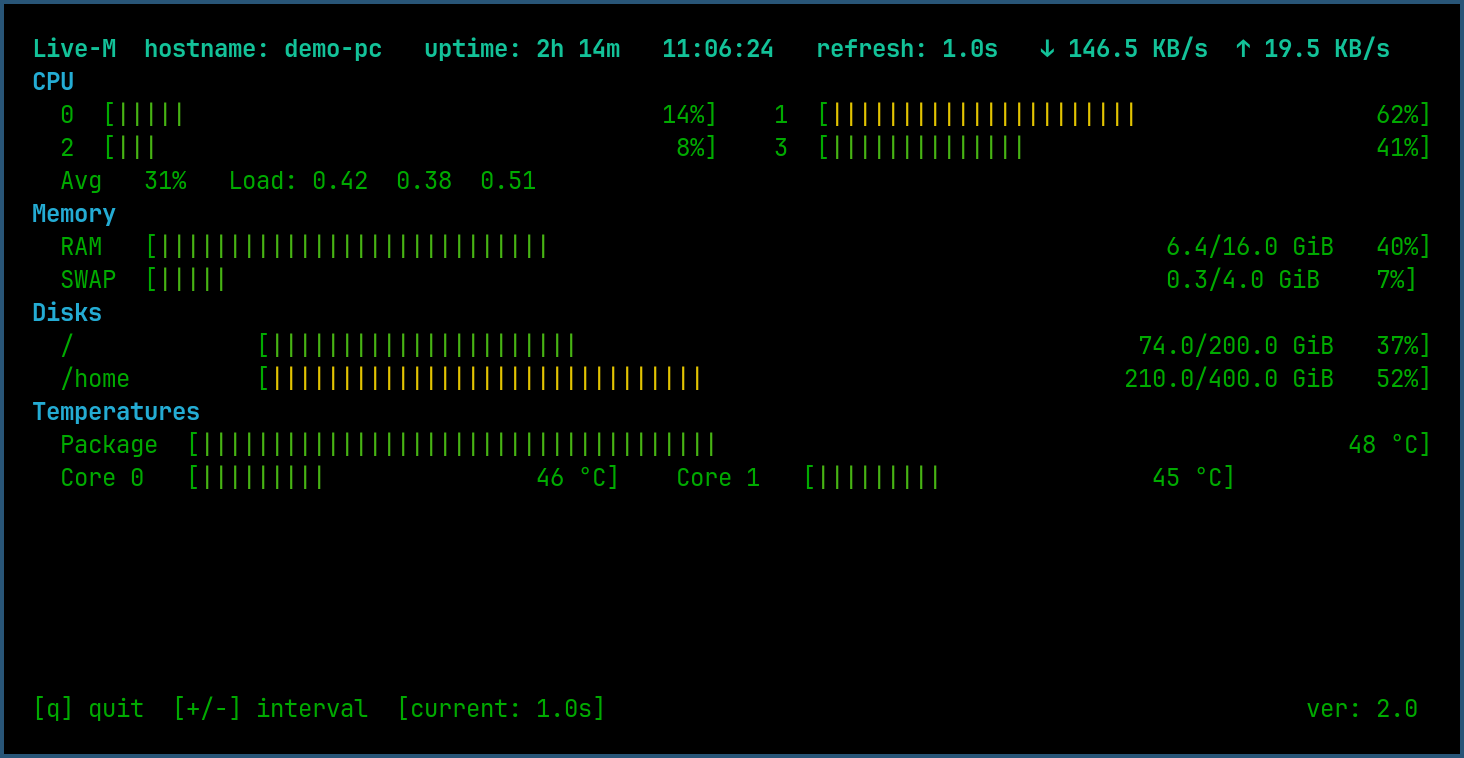
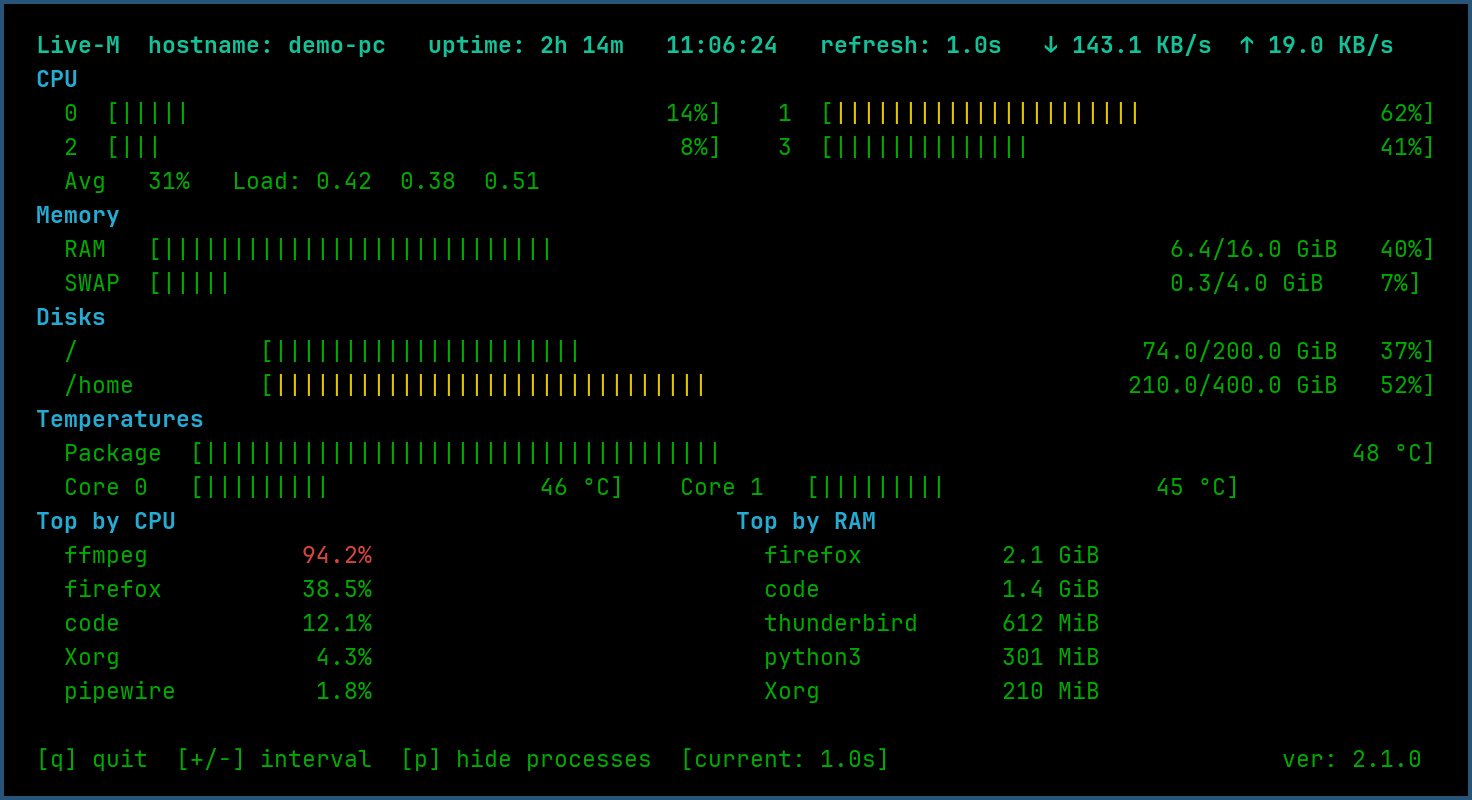
feat(web): Live-M 2.1.0 – nový popis, screenshot s panelem procesů, Python 3.10+
- stránka Live-M: panel Top procesů na klávesu p, historie terminálu, Wi-Fi podle jádra,
  jakýkoli Linux, změřená zátěž (~0,4 % / ~0,8 %), Python 3.10+, Arch v textu
- nový terminal.webp a card.webp (z fake dat), tagline a popisy v apps.yml, úvodní stránka
- verze Live-M 2.1.0 a wpview 0.1.1; stránka wpview: React 18 nebo 19

diff --git a/apps/live-m.html b/apps/live-m.html
@@ -1,6 +1,6 @@
 ---
 title: "Live-M — a lightweight terminal system monitor | Icenux"
-description: "Live-M is a lightweight CLI system monitor for Linux: per-core CPU, RAM, swap, disks, temperatures and Wi-Fi speed without the weight of htop."
+description: "Live-M is a lightweight CLI system monitor for Linux: per-core CPU, RAM, swap, disks, temperatures and Wi-Fi speed, plus an optional top-processes panel, without the weight of htop."
 permalink: /apps/live-m/
 nav: apps
 og_type: article
@@ -15,8 +15,8 @@ next: [repo-doctor, sway-desktop-stats]
           <div class="app-hero__copy">
             <span class="app-tag"><span class="app-tag__icon app-tag__icon--live"><svg viewBox="0 0 24 24" aria-hidden="true">{{ app.icon_svg }}</svg></span>Linux utility</span>
             <h1>Live-M<span class="dot-end">.</span></h1>
-            <p class="lede">A lightweight terminal system monitor that replaces htop and psensors — and never touches the process list.</p>
-            <p class="app-hero__text">Per-core CPU, memory, swap, disks, temperatures and live Wi-Fi throughput in one calm, colour-coded view. Everything updates in place, so you can leave it open on a second monitor and forget about it.</p>
+            <p class="lede">A lightweight terminal system monitor that replaces htop and psensors — and only looks at processes when you ask it to.</p>
+            <p class="app-hero__text">Per-core CPU, memory, swap, disks, temperatures and live Wi-Fi throughput in one calm, colour-coded view. Press <kbd>p</kbd> when you want to see the five busiest processes. Everything updates in place, so you can leave it open on a second monitor and forget about it.</p>
             <div class="app-hero__actions">
               <a class="btn btn--primary" href="#download">Download {{ app.version }} <svg viewBox="0 0 24 24" aria-hidden="true"><path d="M5 12h14M13 6l6 6-6 6"/></svg></a>
               <a class="btn btn--ghost" href="https://github.com/Icenux/Live-M" target="_blank" rel="noopener"><svg viewBox="0 0 24 24" aria-hidden="true"><path d="M12 2a10 10 0 0 0-3.16 19.49c.5.09.68-.22.68-.48v-1.7c-2.78.6-3.37-1.34-3.37-1.34-.45-1.16-1.11-1.47-1.11-1.47-.91-.62.07-.61.07-.61 1 .07 1.53 1.03 1.53 1.03.9 1.53 2.35 1.09 2.92.83.09-.65.35-1.09.63-1.34-2.22-.25-4.55-1.11-4.55-4.94 0-1.09.39-1.98 1.03-2.68-.1-.25-.45-1.27.1-2.65 0 0 .84-.27 2.75 1.02a9.6 9.6 0 0 1 5 0c1.91-1.29 2.75-1.02 2.75-1.02.55 1.38.2 2.4.1 2.65.64.7 1.03 1.59 1.03 2.68 0 3.84-2.34 4.68-4.57 4.93.36.31.68.92.68 1.85v2.74c0 .27.18.58.69.48A10 10 0 0 0 12 2z" fill="currentColor"/></svg> GitHub</a>
@@ -24,7 +24,7 @@ next: [repo-doctor, sway-desktop-stats]
             <ul class="app-facts">
               <li><span>Version</span><strong>{{ app.version }}</strong></li>
               <li><span>Platform</span><strong>Linux</strong></li>
-              <li><span>Runtime</span><strong>Python 3.8+</strong></li>
+              <li><span>Runtime</span><strong>Python 3.10+</strong></li>
               <li><span>License</span><strong>MIT</strong></li>
             </ul>
           </div>
@@ -35,7 +35,7 @@ next: [repo-doctor, sway-desktop-stats]
                 <span class="shot-frame__title">livem</span>
                 <span class="shot-frame__badge">live</span>
               </div>
-              <img src="/assets/apps/live-m/terminal.webp" alt="Live-M running in a terminal, showing CPU, memory, disk and temperature panels" width="1464" height="758">
+              <img src="/assets/apps/live-m/terminal.webp" alt="Live-M running in a terminal, showing CPU, memory, disk and temperature panels and the top-processes panel" width="1472" height="800">
             </div>
             <figcaption>Every panel refreshes in place. Colours tell you what needs attention.</figcaption>
           </figure>
@@ -50,7 +50,7 @@ next: [repo-doctor, sway-desktop-stats]
             <span class="kicker">What it shows</span>
             <h2>Everything that matters.<br>Nothing that doesn't<span class="dot-end">.</span></h2>
           </div>
-          <p>Live-M is deliberately not a process explorer. It answers one question well: how is this machine doing right now?</p>
+          <p>Live-M is deliberately not a process explorer. It answers one question well: how is this machine doing right now? And when the answer is &ldquo;busy&rdquo;, one key shows what is busy.</p>
         </div>
         <div class="feature-grid">
                     <article class="feature reveal">
@@ -86,14 +86,35 @@ next: [repo-doctor, sway-desktop-stats]
               <svg viewBox="0 0 24 24" aria-hidden="true"><path d="M2 8.5a15 15 0 0 1 20 0"/><path d="M5.5 12a10 10 0 0 1 13 0"/><path d="M9 15.5a5 5 0 0 1 6 0"/><circle cx="12" cy="19" r="1"/></svg>
             </span>
             <h3>Live Wi-Fi speed</h3>
-            <p>Current download and upload throughput sit in the header, next to the hostname, without taking over the screen.</p>
+            <p>Current download and upload throughput sit in the header, next to the hostname, without taking over the screen. The wireless interface is detected from the kernel, whatever it is called.</p>
           </article>
                     <article class="feature reveal">
             <span class="feature__icon">
               <svg viewBox="0 0 24 24" aria-hidden="true"><path d="m13 2-9 12h7l-1 8 9-12h-7z"/></svg>
             </span>
             <h3>Lighter than htop</h3>
-            <p>Live-M skips /proc/[pid] entirely. CPU usage stays under 0.5%, which is the whole reason it exists.</p>
+            <p>By default Live-M skips /proc/[pid] entirely and uses around 0.4% of one core, which is the whole reason it exists.</p>
+          </article>
+                    <article class="feature reveal">
+            <span class="feature__icon">
+              <svg viewBox="0 0 24 24" aria-hidden="true"><path d="M8 6h12M8 12h12M8 18h12"/><circle cx="4" cy="6" r="1"/><circle cx="4" cy="12" r="1"/><circle cx="4" cy="18" r="1"/></svg>
+            </span>
+            <h3>Top processes on demand</h3>
+            <p>Press <kbd>p</kbd> for the five busiest processes by CPU and by RAM. It is off by default, sampled every 3 seconds and only while it is on screen, so the cost is small and only paid when you ask.</p>
+          </article>
+                    <article class="feature reveal">
+            <span class="feature__icon">
+              <svg viewBox="0 0 24 24" aria-hidden="true"><rect x="3" y="4" width="18" height="16" rx="2"/><path d="m7 9 3 3-3 3M13 15h4"/></svg>
+            </span>
+            <h3>Your terminal stays intact</h3>
+            <p>Live-M runs on the alternate screen. When you quit with <kbd>q</kbd> or <kbd>Ctrl</kbd>+<kbd>C</kbd>, the shell output from before you started it is right where you left it.</p>
+          </article>
+                    <article class="feature reveal">
+            <span class="feature__icon">
+              <svg viewBox="0 0 24 24" aria-hidden="true"><circle cx="12" cy="12" r="9"/><path d="M3 12h18M12 3a14 14 0 0 1 0 18M12 3a14 14 0 0 0 0 18"/></svg>
+            </span>
+            <h3>Any Linux</h3>
+            <p>Pure Python on <code>/proc</code> and <code>/sys</code>, so it is not tied to a distribution or CPU architecture. Ready-made packages for Debian, Ubuntu, Mint and Arch; Python 3.10 or newer.</p>
           </article>
         </div>
       </div>
@@ -108,10 +129,11 @@ next: [repo-doctor, sway-desktop-stats]
           </div>
           <div class="why-panel__body">
             <p>htop walks every process in <code>/proc/[pid]/</code> on every refresh. That is useful when you need a process list — and unnecessary weight when you only want the health of the machine.</p>
-            <p>Live-M drops the process iteration completely. The result is a monitor that stays under 0.5% CPU, starts instantly and looks good doing it.</p>
+            <p>By default Live-M does not iterate over processes at all. The result is a monitor that stays around 0.4% CPU, starts instantly and looks good doing it. When you do want to know what is loading the machine, press <kbd>p</kbd>: the panel reads one small file per process, samples every 3 seconds and is not sampled at all while hidden. Measured with 300 processes, that is about 0.8% CPU in total.</p>
             <ul class="check-list">
               <li>Live-updating panels, no flicker</li>
               <li>Refresh interval adjustable with <kbd>+</kbd> and <kbd>-</kbd></li>
+              <li>Top processes with <kbd>p</kbd>, or start with them on using <code>--procs</code></li>
               <li>Optional <code>--interval</code>, <code>--no-color</code>, <code>--version</code> and <code>--help</code></li>
               <li>Quit with <kbd>q</kbd> or <kbd>Ctrl</kbd>+<kbd>C</kbd></li>
             </ul>
@@ -131,8 +153,8 @@ next: [repo-doctor, sway-desktop-stats]
         </div>
         <div class="shots shots--single">
                     <figure class="shot shot--wide reveal">
-            <img src="/assets/apps/live-m/terminal.webp" alt="Full Live-M terminal dashboard with CPU cores, RAM, swap, disks, temperatures and Wi-Fi in the header" width="1464" height="758" loading="lazy">
-            <figcaption>CPU, memory, disks, thermals and network — all in a single terminal window.</figcaption>
+            <img src="/assets/apps/live-m/terminal.webp" alt="Full Live-M terminal dashboard with CPU cores, RAM, swap, disks, temperatures, the top processes by CPU and RAM, and Wi-Fi in the header" width="1472" height="800" loading="lazy">
+            <figcaption>CPU, memory, disks, thermals, network and the busiest processes — all in a single terminal window.</figcaption>
           </figure>
         </div>
       </div>
@@ -144,12 +166,12 @@ next: [repo-doctor, sway-desktop-stats]
           <div class="download-panel__copy">
             <span class="kicker">Download</span>
             <h2>Install Live-M<span class="dot-end">.</span></h2>
-            <p>Built for Debian, Ubuntu and Linux Mint. Install it from the signed Icenux repository and updates arrive with <code>apt upgrade</code>. The package is small, the dependency list is one package long, and the binary is on your PATH immediately.</p>
+            <p>Packaged for Debian, Ubuntu and Linux Mint, with an Arch Linux package below. Install it from the signed Icenux repository and updates arrive with <code>apt upgrade</code>. The package is small, the dependency list is one package long, and the binary is on your PATH immediately.</p>
             <div class="download-actions">
               <a class="btn btn--primary" href="https://github.com/Icenux/Live-M/releases/latest/download/livem_all.deb" download>Download .deb <svg viewBox="0 0 24 24" aria-hidden="true"><path d="M5 12h14M13 6l6 6-6 6"/></svg></a>
               <a class="btn btn--ghost" href="https://github.com/Icenux/Live-M/releases" target="_blank" rel="noopener">All releases ↗</a>
             </div>
-            <p class="download-note">Requires Linux, Python 3.8+ and <code>python3-psutil</code>.</p>
+            <p class="download-note">Requires Linux, Python 3.10+ and <code>python3-psutil</code>.</p>
             <p class="download-note">Every release ships a signed <code>SHA256SUMS</code> next to the package.</p>
           </div>
 {% capture live_apt %}sudo curl -fsSL https://icenux.github.io/icenux/icenux.asc -o /usr/share/keyrings/icenux.asc
@@ -177,8 +199,8 @@ livem{% endcapture %}
 
         <div class="spec-grid reveal">
           <div class="spec"><span>Package</span><strong>livem {{ app.version }}</strong><small>Signed APT package</small></div>
-          <div class="spec"><span>Runs on</span><strong>Debian · Ubuntu · Mint</strong><small>Other distributions from source</small></div>
-          <div class="spec"><span>Dependency</span><strong>python3-psutil</strong><small>Plus Python 3.8 or newer</small></div>
+          <div class="spec"><span>Runs on</span><strong>Any Linux</strong><small>Packages for Debian, Ubuntu, Mint and Arch</small></div>
+          <div class="spec"><span>Dependency</span><strong>python3-psutil</strong><small>Plus Python 3.10 or newer</small></div>
           <div class="spec"><span>License</span><strong>MIT</strong><small>Free to use and modify</small></div>
         </div>
 

diff --git a/apps/wpview.html b/apps/wpview.html
@@ -23,7 +23,7 @@ next: [scrv, ccc]
             </div>
             <ul class="app-facts">
               <li><span>Version</span><strong>{{ app.version }}</strong></li>
-              <li><span>Framework</span><strong>React 18</strong></li>
+              <li><span>Framework</span><strong>React 18 or 19</strong></li>
               <li><span>Written in</span><strong>TypeScript</strong></li>
               <li><span>Format</span><strong>ESM + types</strong></li>
             </ul>
@@ -112,7 +112,7 @@ next: [scrv, ccc]
               <li>Controlled <code>index</code> and <code>itemState</code></li>
               <li>Callbacks: <code>onRate</code>, <code>onFavorite</code>, <code>onTagToggle</code>, <code>onEdit</code>, <code>onDelete</code></li>
               <li>Images and video, with a settings panel</li>
-              <li>Peer dependencies: <code>react</code> and <code>react-dom</code> 18</li>
+              <li>Peer dependencies: <code>react</code> and <code>react-dom</code> 18 or 19</li>
               <li>Playground with mock data: <code>npm run dev</code></li>
               <li>Tests with Vitest and Testing Library</li>
             </ul>
@@ -132,7 +132,7 @@ next: [scrv, ccc]
               <a class="btn btn--primary" href="https://github.com/{{ app.repo }}/archive/{{ app.tag }}.zip" download>Download source ZIP <svg viewBox="0 0 24 24" aria-hidden="true"><path d="M5 12h14M13 6l6 6-6 6"/></svg></a>
               <a class="btn btn--ghost" href="https://github.com/{{ app.repo }}" target="_blank" rel="noopener">Repository ↗</a>
             </div>
-            <p class="download-note">Needs React 18 and Node.js with npm. Release <code>{{ app.tag }}</code>.</p>
+            <p class="download-note">Needs React 18 or 19 and Node.js with npm. Release <code>{{ app.tag }}</code>.</p>
           </div>
           <div class="install-card">
             <div class="install-card__head">
@@ -180,7 +180,7 @@ import '@icenux/wpview/style.css';
 
         <div class="spec-grid reveal">
           <div class="spec"><span>Version</span><strong>{{ app.version }}</strong><small>{{ app.released }}</small></div>
-          <div class="spec"><span>Framework</span><strong>React 18</strong><small>react and react-dom as peers</small></div>
+          <div class="spec"><span>Framework</span><strong>React 18 or 19</strong><small>react and react-dom as peers</small></div>
           <div class="spec"><span>Output</span><strong>ESM</strong><small>With type declarations</small></div>
           <div class="spec"><span>Source</span><strong>GitHub</strong><small>Not on npm yet</small></div>
         </div>

diff --git a/index.html b/index.html
@@ -103,7 +103,7 @@ nav: home
               <svg viewBox="0 0 24 24" aria-hidden="true"><path d="m8 7-5 5 5 5M16 7l5 5-5 5M14 4l-4 16"/></svg>
             </span>
             <h3>Light on the system</h3>
-            <p>Live-M skips the process list to stay under 0.5% CPU, repo-doctor ships as a standalone binary that only needs git, and scrv is a single bash script.</p>
+            <p>Live-M only looks at processes when you press a key, so it stays around 0.4% CPU, repo-doctor ships as a standalone binary that only needs git, and scrv is a single bash script.</p>
           </article>
 
           <article class="service reveal" style="--i:2">
